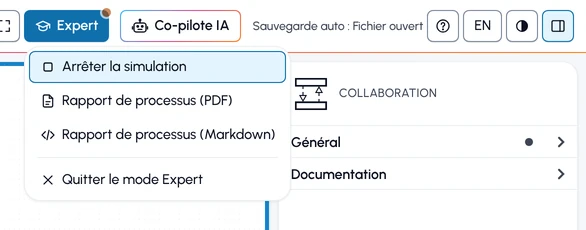
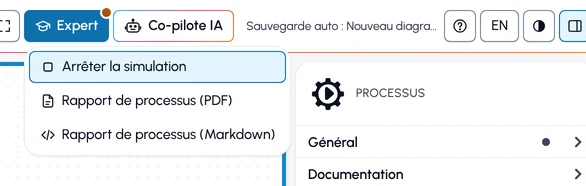
Show only Stop simulation in the Expert menu while a simulation runs
Leave expert mode now appears once the simulation has stopped, so the two
entries are never side by side. Stopping keeps expert mode on to set the
branch probabilities, which the locked canvas prevents during the run.
Update the tooltip, the help in both languages and the menu screenshots.

diff --git a/aide.html b/aide.html
@@ -597,10 +597,10 @@
       <section id="experts-bpmn">
         <h2>Pour les experts BPMN</h2>
         <p>Ces fonctions servent à éprouver un modèle et à en rendre compte : rejouer le processus, mesurer la répartition des instances, en tirer un rapport, et contrôler en détail ce que produit l'IA. Aucune n'est nécessaire pour dessiner un diagramme.</p>
-        <p>Le bouton <span class="uib"><span class="ico" data-icon="expert" aria-hidden="true"></span>Expert</span> de la barre d'outils ouvre un menu : <span class="uib"><span class="ico" data-icon="play" aria-hidden="true"></span>Simulation</span>, <span class="uib"><span class="ico" data-icon="pdf" aria-hidden="true"></span>Rapport de processus (PDF)</span>, <span class="uib"><span class="ico" data-icon="code" aria-hidden="true"></span>Rapport de processus (Markdown)</span>, <a href="#probabilites">Proposer les probabilités</a> et <a href="#rapport-processus">Analyse du Co-pilote</a>, grisées tant qu'aucun modèle n'est choisi pour le co-pilote : une petite icône d'aide le rappelle au survol. Choisir une entrée active le mode expert : le bouton passe en bleu, et le champ Probabilité (%) apparaît dans le panneau Processus. Le mode reste actif jusqu'à <span class="uib"><span class="ico" data-icon="close" aria-hidden="true"></span>Quitter le mode Expert</span>, en bas du même menu, et le navigateur s'en souvient. Hors de ce mode, l'éditeur n'affiche aucun de ces outils. Les contrôles du co-pilote et les outils MCP restent disponibles dans les deux cas.</p>
-        <figure><img src="/src/help/img/fr-menu-expert.webp" width="586" height="230" alt="Le bouton Expert en bleu et son menu ouvert : Arrêter la simulation, Rapport de processus en PDF ou en Markdown, Quitter le mode Expert." loading="lazy" /><figcaption>Le menu Expert, mode actif et simulation en cours.</figcaption></figure>
+        <p>Le bouton <span class="uib"><span class="ico" data-icon="expert" aria-hidden="true"></span>Expert</span> de la barre d'outils ouvre un menu : <span class="uib"><span class="ico" data-icon="play" aria-hidden="true"></span>Simulation</span>, <span class="uib"><span class="ico" data-icon="pdf" aria-hidden="true"></span>Rapport de processus (PDF)</span>, <span class="uib"><span class="ico" data-icon="code" aria-hidden="true"></span>Rapport de processus (Markdown)</span>, <a href="#probabilites">Proposer les probabilités</a> et <a href="#rapport-processus">Analyse du Co-pilote</a>, grisées tant qu'aucun modèle n'est choisi pour le co-pilote : une petite icône d'aide le rappelle au survol. Choisir une entrée active le mode expert : le bouton passe en bleu, et le champ Probabilité (%) apparaît dans le panneau Processus. Le mode reste actif jusqu'à <span class="uib"><span class="ico" data-icon="close" aria-hidden="true"></span>Quitter le mode Expert</span>, en bas du même menu, et le navigateur s'en souvient. Cette entrée n'apparaît pas pendant une simulation. Hors de ce mode, l'éditeur n'affiche aucun de ces outils. Les contrôles du co-pilote et les outils MCP restent disponibles dans les deux cas.</p>
+        <figure><img src="/src/help/img/fr-menu-expert.webp" width="586" height="186" alt="Le bouton Expert en bleu et son menu ouvert : Arrêter la simulation, Rapport de processus en PDF ou en Markdown." loading="lazy" /><figcaption>Le menu Expert, mode actif et simulation en cours.</figcaption></figure>
         <h3 id="simulation"><span class="ico" data-icon="play" aria-hidden="true"></span>Simulation</h3>
-        <p><span class="uib"><span class="ico" data-icon="expert" aria-hidden="true"></span>Expert</span>, puis <span class="uib"><span class="ico" data-icon="play" aria-hidden="true"></span>Simulation</span>, lance le mode simulation : un bouton de lecture apparaît sur chaque événement de début. Cliquez dessus pour faire partir un jeton, et regardez-le suivre les flux. Aux passerelles exclusives, vous choisissez le chemin. Une glissière, en bas du canevas, règle la vitesse des jetons de 0,25× à 4×. Un journal montre les étapes parcourues. Vous vérifiez ainsi que le processus se termine dans tous les cas. Le menu Expert propose alors <span class="uib">Arrêter la simulation</span> pour revenir à l'édition, et un point orange signale sur le bouton qu'une simulation tourne.</p>
+        <p><span class="uib"><span class="ico" data-icon="expert" aria-hidden="true"></span>Expert</span>, puis <span class="uib"><span class="ico" data-icon="play" aria-hidden="true"></span>Simulation</span>, lance le mode simulation : un bouton de lecture apparaît sur chaque événement de début. Cliquez dessus pour faire partir un jeton, et regardez-le suivre les flux. Aux passerelles exclusives, vous choisissez le chemin. Une glissière, en bas du canevas, règle la vitesse des jetons de 0,25× à 4×. Un journal montre les étapes parcourues. Vous vérifiez ainsi que le processus se termine dans tous les cas. Le menu Expert ne propose alors que <span class="uib">Arrêter la simulation</span>, et un point orange signale sur le bouton qu'une simulation tourne. L'arrêt rend la main à l'édition et garde le mode Expert : le canevas est verrouillé pendant la simulation, et c'est après l'arrêt que l'on règle les probabilités des branches.</p>
         <p>La case marquée d'un sapin, au bout du cadre de la vitesse, fait tourner le dégradé Leylines autour du contour de chaque étape où entre un jeton. Elle est décochée par défaut, et le navigateur retient votre choix.</p>
         <div class="fig-pair">
           <figure class="fig-anim"><p class="fig-title">Ralenti puis accéléré</p><img src="/docs/token-simulation.fr.gif" width="1280" height="720" alt="Un jeton parcourt le processus d'achat, à 0,5× puis à 3×" loading="lazy" /><figcaption>Un jeton ralenti puis accéléré avec la glissière de vitesse.</figcaption></figure>

diff --git a/help.html b/help.html
@@ -597,10 +597,10 @@
       <section id="bpmn-experts">
         <h2>For BPMN experts</h2>
         <p>These features are for testing a model and reporting on it: replaying the process, measuring how instances spread, producing a report, and checking in detail what the AI produces. None of them is needed to draw a diagram.</p>
-        <p>The <span class="uib"><span class="ico" data-icon="expert" aria-hidden="true"></span>Expert</span> button of the toolbar opens a menu: <span class="uib"><span class="ico" data-icon="play" aria-hidden="true"></span>Simulation</span>, <span class="uib"><span class="ico" data-icon="pdf" aria-hidden="true"></span>Process report (PDF)</span>, <span class="uib"><span class="ico" data-icon="code" aria-hidden="true"></span>Process report (Markdown)</span>, <a href="#probabilities">Propose probabilities</a> and <a href="#process-report">Co-pilot analysis</a>, greyed out until a model is chosen for the co-pilot: a small help icon says so on hover. Choosing an entry turns expert mode on: the button turns blue, and the Probability (%) field appears in the Process panel. The mode stays on until <span class="uib"><span class="ico" data-icon="close" aria-hidden="true"></span>Leave expert mode</span>, at the bottom of the same menu, and the browser remembers it. Outside this mode, the editor shows none of these tools. The co-pilot checks and the MCP tools are available either way.</p>
-        <figure><img src="/src/help/img/en-menu-expert.webp" width="600" height="230" alt="The blue Expert button and its open menu: Stop simulation, Process report as PDF or Markdown, Leave expert mode." loading="lazy" /><figcaption>The Expert menu, with the mode on and a simulation running.</figcaption></figure>
+        <p>The <span class="uib"><span class="ico" data-icon="expert" aria-hidden="true"></span>Expert</span> button of the toolbar opens a menu: <span class="uib"><span class="ico" data-icon="play" aria-hidden="true"></span>Simulation</span>, <span class="uib"><span class="ico" data-icon="pdf" aria-hidden="true"></span>Process report (PDF)</span>, <span class="uib"><span class="ico" data-icon="code" aria-hidden="true"></span>Process report (Markdown)</span>, <a href="#probabilities">Propose probabilities</a> and <a href="#process-report">Co-pilot analysis</a>, greyed out until a model is chosen for the co-pilot: a small help icon says so on hover. Choosing an entry turns expert mode on: the button turns blue, and the Probability (%) field appears in the Process panel. The mode stays on until <span class="uib"><span class="ico" data-icon="close" aria-hidden="true"></span>Leave expert mode</span>, at the bottom of the same menu, and the browser remembers it. This entry is hidden while a simulation runs. Outside this mode, the editor shows none of these tools. The co-pilot checks and the MCP tools are available either way.</p>
+        <figure><img src="/src/help/img/en-menu-expert.webp" width="600" height="186" alt="The blue Expert button and its open menu: Stop simulation, Process report as PDF or Markdown." loading="lazy" /><figcaption>The Expert menu, with the mode on and a simulation running.</figcaption></figure>
         <h3 id="simulation"><span class="ico" data-icon="play" aria-hidden="true"></span>Simulation</h3>
-        <p><span class="uib"><span class="ico" data-icon="expert" aria-hidden="true"></span>Expert</span>, then <span class="uib"><span class="ico" data-icon="play" aria-hidden="true"></span>Simulation</span>, switches to simulation mode: a play button appears on each start event. Click it to send a token, and watch it follow the flows. At exclusive gateways, you choose the path. A slider at the bottom of the canvas sets the token speed, from 0.25× to 4×. A log lists the steps taken, so you can check that the process ends in every case. The Expert menu then offers <span class="uib">Stop simulation</span> to go back to editing, and an orange dot on the button shows that a simulation is running.</p>
+        <p><span class="uib"><span class="ico" data-icon="expert" aria-hidden="true"></span>Expert</span>, then <span class="uib"><span class="ico" data-icon="play" aria-hidden="true"></span>Simulation</span>, switches to simulation mode: a play button appears on each start event. Click it to send a token, and watch it follow the flows. At exclusive gateways, you choose the path. A slider at the bottom of the canvas sets the token speed, from 0.25× to 4×. A log lists the steps taken, so you can check that the process ends in every case. The Expert menu then offers only <span class="uib">Stop simulation</span>, and an orange dot on the button shows that a simulation is running. Stopping goes back to editing and keeps expert mode on: the canvas is locked during the simulation, and the branch probabilities are set once it has stopped.</p>
         <p>The checkbox marked with a Christmas tree, at the end of the speed box, spins the Leylines gradient around the outline of each step a token enters. It is off by default, and the browser remembers your choice.</p>
         <div class="fig-pair">
           <figure class="fig-anim"><p class="fig-title">Slowed down, then sped up</p><img src="/docs/token-simulation.gif" width="1280" height="720" alt="A token runs through the purchase process, at 0.5× then 3×" loading="lazy" /><figcaption>A token slowed down, then sped up with the speed slider.</figcaption></figure>

diff --git a/src/main.js b/src/main.js
@@ -524,8 +524,15 @@ document.getElementById('btn-layout').addEventListener('click', async () => {
 const simButton = document.getElementById('btn-simulation')
 modeler.on('tokenSimulation.toggleMode', ({ active }) => {
   simButton.textContent = active ? T('Stop simulation', 'Arrêter la simulation') : 'Simulation'
+  simButton.title = active
+    ? T('Back to editing. Expert mode stays on, so you can set the branch probabilities', 'Revenir à l\'édition. Le mode Expert reste actif pour régler les probabilités des branches')
+    : T('Run tokens through the process, with the heatmap and branch probabilities', 'Faire circuler des jetons dans le processus, avec la carte de chaleur et les probabilités des branches')
   simButton.classList.toggle('active', !!active)
   document.getElementById('btn-expert').classList.toggle('running', !!active)
+  // Pendant une simulation, le menu ne propose que « Arrêter la simulation » : le canevas
+  // est verrouillé, et l'arrêt garde le mode Expert pour régler les probabilités. « Quitter
+  // le mode Expert » revient une fois la simulation arrêtée.
+  document.getElementById('expert-menu').classList.toggle('simulating', !!active)
 })
 simButton.addEventListener('click', () => {
   setExpert(true)

diff --git a/src/theme/leylines.css b/src/theme/leylines.css
@@ -1518,6 +1518,9 @@ html:not(.expert) .expert-only,
 html:not(.expert) #canvas .heatmap-bar,
 html:not(.expert) #canvas .heatmap-legend,
 html:not(.expert) [data-group-id="group-bpmn-pilot-simulation"] { display: none !important; }
+/* Simulation en cours : « Quitter le mode Expert » et son séparateur s'effacent du menu (src/main.js). */
+#expert-menu.simulating #btn-expert-off,
+#expert-menu.simulating .menu-sep { display: none !important; }
 
 /* Croix de fermeture des fenêtres, de la comparaison, de la confidentialité et de la
    présentation : dans un petit carré au trait orange de la charte. */
